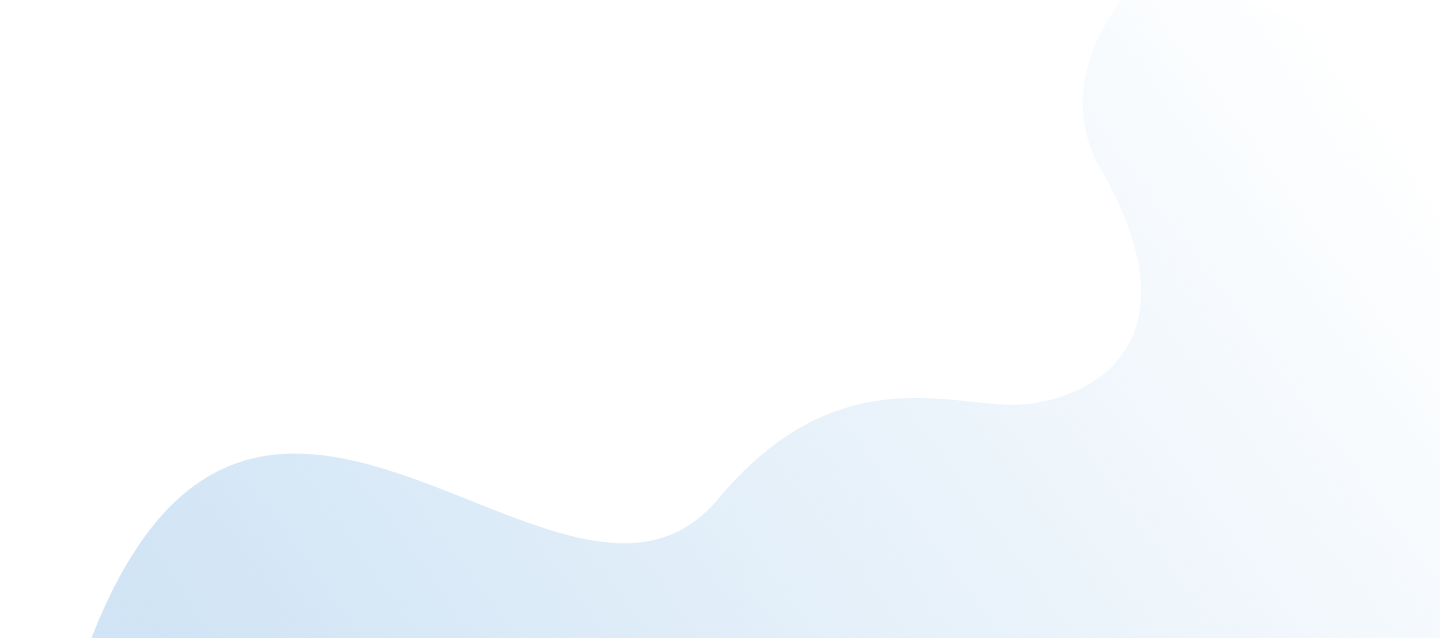
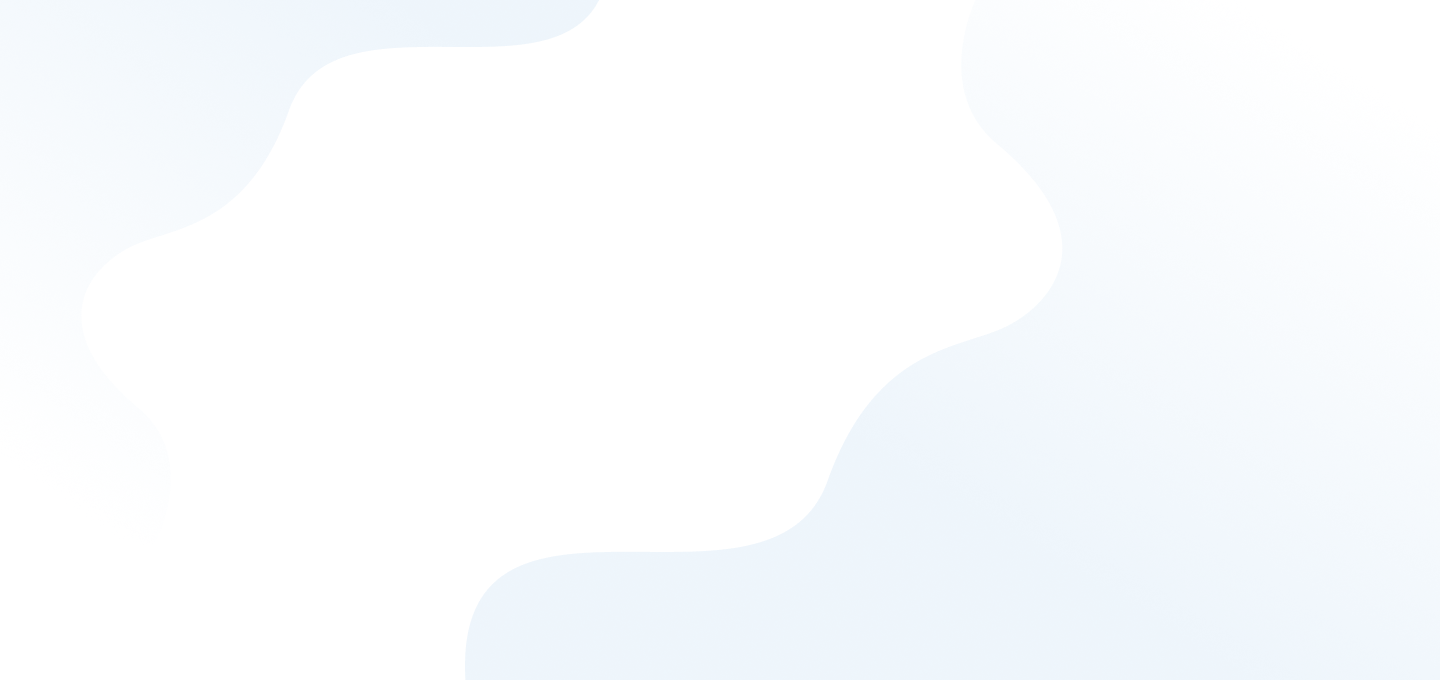
reviews completed

Changed region(s): [[0.0625, 0.7147, 0.375, 1.0], [0.4688, 0.685, 0.5625, 0.8041]]

diff --git a/index.html b/index.html
@@ -206,6 +206,8 @@
             </article>
         </div>
     </section>
+
+    <!-- features starts here -->
     <section class="features-section">
         <div class="features-header">
             <h2>Join us at DeeCee, where educational <br>excellence meets limitless possibilities.</h2>
@@ -304,5 +306,36 @@
 
 
 </body>
+<section class="review-container">
+    <div class="reviews-head">
+        <h1>What our students say</h1>
+        <p>Through the Words of Our Community.</p>
+    </div>
+    <div class="reviews">
+        <div class="review-card">
+            <p class="review-text">“Sir when I watch your video I get attached to you. Sir your explanation of chapter are so amazing.”</p>
+            <div class="review-author">
+                <h4>Jai Shankar Jha</h4>
+            </div>
+        </div>
+
+        <div class="review-card">
+            <p class="review-text">“Rajat sir you are a really great personality. I admire you alot. Be it teaching or normal guidance, you give your 200% to help us and we have a special bond.”</p>
+            <div class="review-author">
+                <h4>Divyansh Gupta</h4>
+            </div>
+        </div>
+        <div class="review-card">
+            <p class="review-text">“No words can express my gratitude to you sir. I have never seen any teacher so sweet and kind hearted like you. I always pray to God to keep you healthy you. Love you. You are the best.”</p>
+            <div class="review-author">
+                <h4>Komal Bhatt</h4>
+            </div>
+        </div>
+
+    </div>
+
+
+
+</section>
 
 </html>

diff --git a/assets/css/style.css b/assets/css/style.css
@@ -307,7 +307,7 @@ body {
   justify-content: center;
   padding: 40px;
   height: 550px;
-  background: url(/assets/images/image.png) center/cover no-repeat,
+  background: url(/assets/images/why.png) center/cover no-repeat,
   linear-gradient(135deg, #2AA7B5 , #01539D);
   
   padding:30px 11% 50px 9%;
@@ -366,7 +366,7 @@ body {
 }
 
 .features-section h2 {
-  font-size: 28px;
+  font-size: 40px;
   color: #01539D;
   margin-bottom: 40px;
 }
@@ -458,6 +458,58 @@ body {
   width: 154px;
   height: 153px;
 }
+
+.review-container{
+  padding: 40px 9% 50px 9%;
+  text-align: center;
+  background:  url(/assets/images/image.png) center/cover no-repeat;
+  background-color: #F5F9FD;
+  height: 550px;
+
+}
+
+.reviews-head h1{
+  color: #01539D;
+  font-size: 45px;
+  margin-bottom: 0;
+}
+
+.reviews-head{
+  margin-top: 0;
+  margin-bottom: 20px;
+}
+
+.review-card {
+  text-align: start;
+  background-color: #ffffff;
+  border-radius: 15px;
+  box-shadow: 0px 4px 15px rgba(0, 0, 0, 0.1);
+  padding: 20px;
+  margin: 20px;
+  
+  width: 330px;
+  height: 300px;
+
+}
+
+.review-text {
+  font-size: 18px;
+  color: #333;
+  margin-bottom: 15px;
+  line-height: 1.8;
+  
+}
+
+.review-author h4 {
+  font-size: 18px;
+  align-items: flex-start;
+  color: black;
+}
+
+.reviews{
+  display: flex;
+}
+
 
 
 
